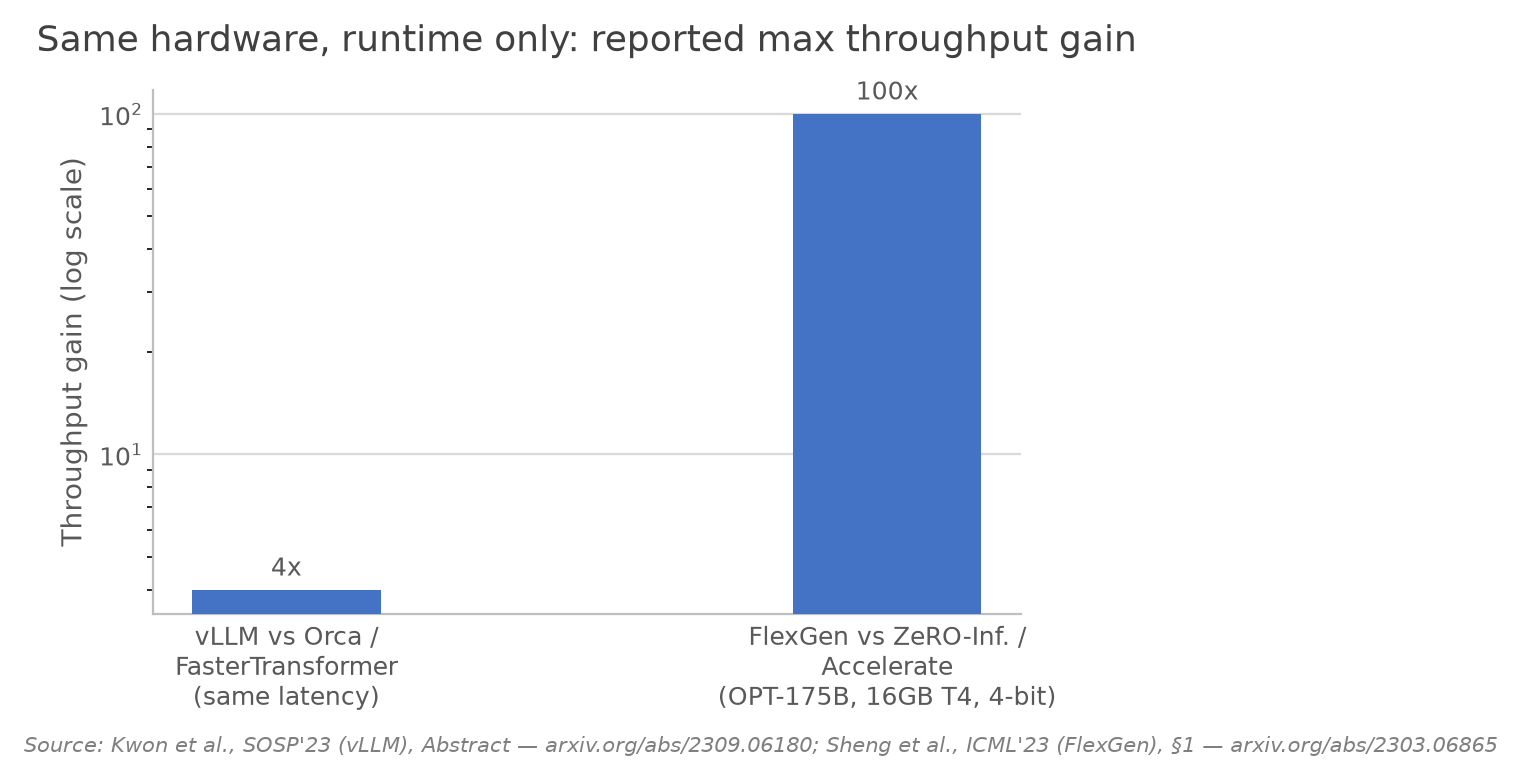
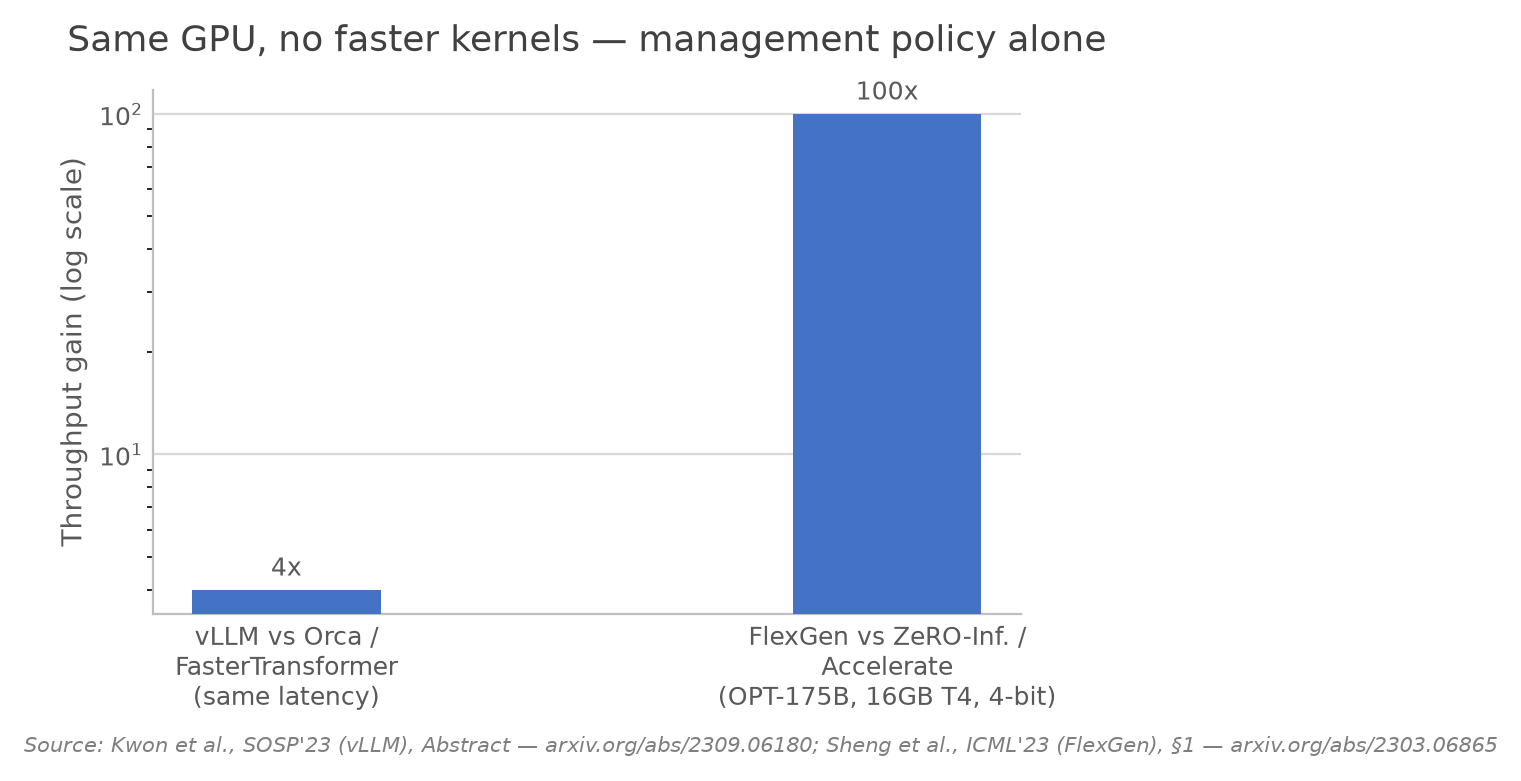
Background ④: preempt the 'what about compilation?' objection
- ④ 하단 rephrased: gains came from memory management / placement
  policy with no faster kernels — an axis independent of compilation;
  chart title updated to match
- ④ 상단 stack diagram: footnote naming the two runtime levers
  (kernels & compilation vs dynamic resource management) and marking
  which one this project takes

Claude-Session: https://claude.ai/code/session_01LyTRzLdXE69fgJZWPU6Yf7

Changed region(s): [[0.0309, 0.0307, 0.7416, 0.0922]]

diff --git a/docs/mcr_background_2p.build.js b/docs/mcr_background_2p.build.js
@@ -36,8 +36,8 @@ A.pageColumns(pptx, {
     { header: "④ 런타임 스택의 중요도", items: [
       { subtitle: "AI 씬의 승부처 = 실행 계층(런타임)",
         text: "배치·이동·스케줄링을 결정하는 실행 계층 — 업계 전체가 자체 런타임(TensorRT-LLM·ONNX Runtime·vLLM·SGLang)에 투자, CUDA 해자도 실리콘 아닌 SW 스택", image: img("bg_stack_runtime.png") },
-      { subtitle: "같은 HW, 런타임만으로 갈린 성능",
-        text: "런타임만으로 처리량 2–4×(vLLM SOSP'23)·100×(FlexGen ICML'23) 격차 — HW 스펙은 상한일 뿐, 도달 성능은 런타임이 결정", image: img("bg_gap_evidence.png") },
+      { subtitle: "같은 HW, 관리 정책만으로 갈린 성능",
+        text: "커널을 빠르게 한 게 아니라 메모리 관리(vLLM, paging)·배치 정책(FlexGen, offloading)만 바꿔 2–4×·100× 격차 — 컴파일 축과 독립인 동적 자원 관리 축의 지렛대", image: img("bg_gap_evidence.png") },
     ]},
     { header: "⑤ 그런데 현 런타임은 연산기 중심", items: [
       { subtitle: "GPU 중심 설계 — 메모리는 부속물",

diff --git a/docs/mcr_assets/make_assets.py b/docs/mcr_assets/make_assets.py
@@ -340,7 +340,14 @@ def bg_stack_runtime():
     box(ax, 0.4, 0.28, 9.2, 0.72,
         "Hardware — GPU · Memory tiers (HBM · DRAM · CXL · Flash)",
         LGRAY, GRAY, tc=INK, fs=9.5)
-    save(fig, "bg_stack_runtime.png", 6.6, 3.0)
+    # two independent levers inside the runtime layer — this project takes ②
+    ax.set_ylim(-0.75, 4.75)
+    ax.text(0.4, -0.18, "Runtime levers:  ① kernels & compilation — how fast each op runs"
+            "   ·   ② dynamic resource management — where data lives,",
+            fontsize=7.8, color="#7F7F7F", style="italic")
+    ax.text(0.4, -0.55, "when it moves, what runs where (→ this project's axis)",
+            fontsize=7.8, color="#7F7F7F", style="italic")
+    save(fig, "bg_stack_runtime.png", 6.6, 3.1)
 
 # 18. Naive DRAM->SSD offloading — bandwidth cliff and throughput collapse
 def bg_offload():

diff --git a/docs/mcr_assets/make_evidence_charts.py b/docs/mcr_assets/make_evidence_charts.py
@@ -17,7 +17,7 @@ from excelchart import ExcelChart
 def bg_gap_evidence():
     # 배경 2/2 ④ — same HW, runtime alone decides throughput (ledger row 1)
     c = ExcelChart(
-        "Same hardware, runtime only: reported max throughput gain",
+        "Same GPU, no faster kernels — management policy alone",
         source="Kwon et al., SOSP'23 (vLLM), Abstract — arxiv.org/abs/2309.06180; "
                "Sheng et al., ICML'23 (FlexGen), §1 — arxiv.org/abs/2303.06865")
     c.column(["vLLM vs Orca /\nFasterTransformer\n(same latency)",